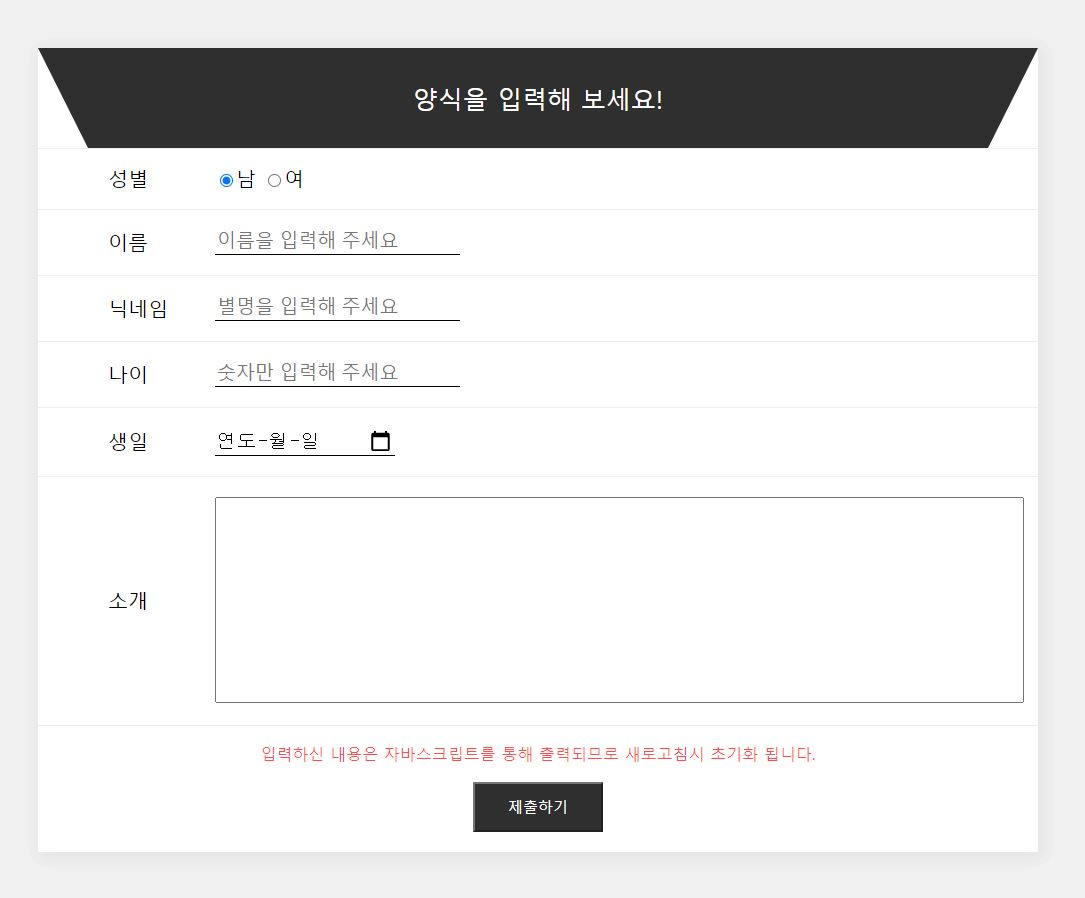
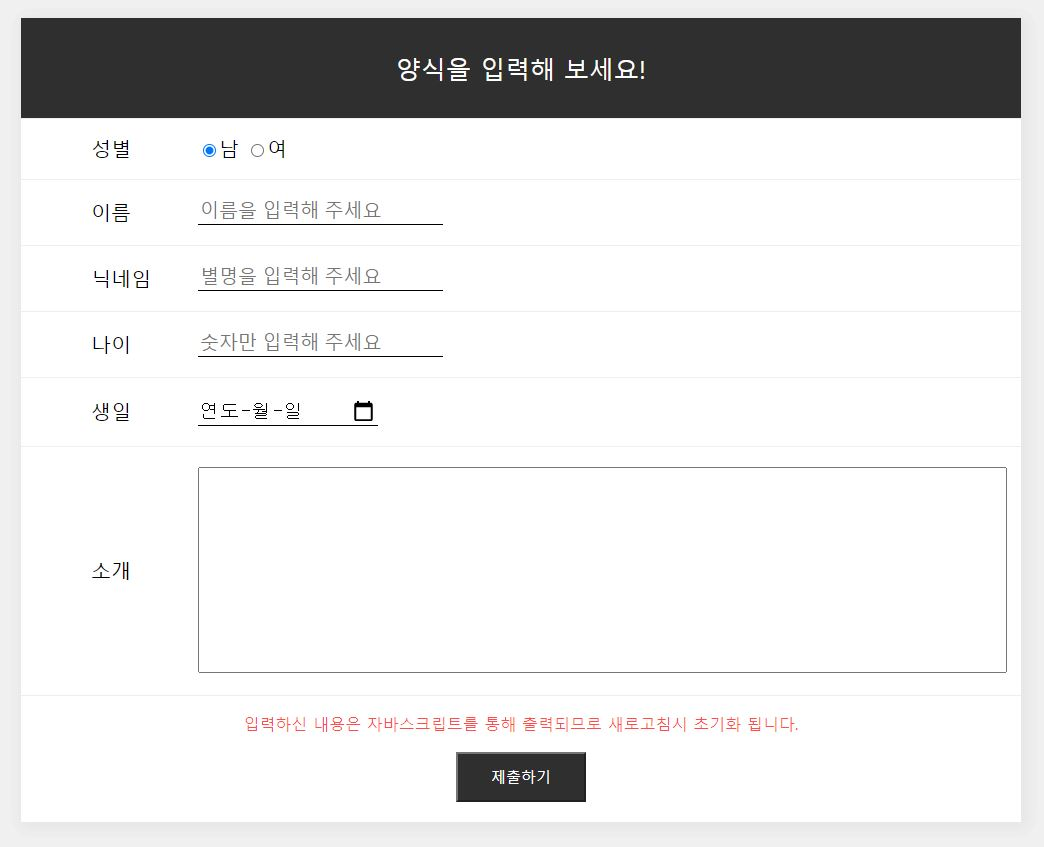
20220117

diff --git a/source/css/main.css b/source/css/main.css
@@ -1,3 +1,5 @@
+@import url(https://cdn.rawgit.com/openhiun/hangul/14c0f6faa2941116bb53001d6a7dcd5e82300c3f/nanumbarungothic.css);
+
 html {
   scroll-behavior: smooth;
   font-size: 62.5%;
@@ -6,6 +8,7 @@ html {
 body {
   overflow: scroll;
   overflow-x: hidden;
+  font-family: "Nanum Barun Gothic";
 }
 
 ::selection {
@@ -141,7 +144,7 @@ a {
   height: 500px;
   margin-left: auto;
   margin-right: auto;
-  width: 80%;
+  width: 75%;
   background-color: white;
   box-shadow: 16px 12px 16px 3px rgb(151, 151, 151);
   position: relative;
@@ -149,40 +152,44 @@ a {
 
 .contents .contents_items .introduce .i_title {
   font-size: 1.9rem;
-  line-height: 30px;
-  font-weight: 500;
+  line-height: 27px;
+  font-weight: 00;
+  letter-spacing: 1px;
 }
 
 .contents .contents_items .introduce .i_info {
   position: absolute;
   bottom: 10%;
   left: 13%;
-  font-size: 5.5rem;
+  font-size: 5rem;
   color: #555555;
 }
 
 .contents .contents_items .introduce .i_deco {
   position: absolute;
-  font-size: 27rem;
+  font-size: 24rem;
   font-weight: 800;
-  bottom: -8%;
+  bottom: -6%;
   right: 10%;
   color: #dddddd;
   transition-duration: 0.4s;
 }
 
 .contents .contents_items .tech {
-  margin-top: 19%;
-  height: 800px;
+  margin-top: 14%;
+  height: 750px;
   background-color: #555555;
   position: relative;
-  right: 50px;
+  margin-left: auto;
+  margin-right: auto;
   padding-bottom: 20px;
+  width: 80%;
+  border-radius: 15px;
 }
 
 .contents .contents_items .tech .t_title {
   font-size: 4rem;
-  line-height: 30px;
+  line-height: 55px;
   font-weight: 500;
   color: white;
   text-align: left;
@@ -191,7 +198,7 @@ a {
 }
 
 .contents .contents_items .tech .t_desc {
-  font-size: 3rem;
+  font-size: 2rem;
 }
 
 .contents .contents_items .tech:hover .t_title {
@@ -199,20 +206,22 @@ a {
 }
 
 .contents .contents_items .tech .t_desc .t_list li {
-  font-size: 10rem;
-  margin-bottom: 30px;
+  font-size: 8rem;
+  margin-bottom: 40px;
   color: white;
   font-weight: 500;
   text-align: center;
   position: relative;
   z-index: 1;
+  margin-left: auto;
+  margin-right: auto;
 }
 
 .contents .contents_items .tech .t_desc .t_list li::after {
   background-color: rgba(0, 0, 0, 0.8);
   width: 0%;
   position: absolute;
-  top: 0px;
+  top: -12px;
   left: 0px;
   right: 0px;
   bottom: 0px;
@@ -241,10 +250,10 @@ a {
 }
 
 .contents .contents_items .portfolio .items .item {
-  width: 500px;
+  width: 470px;
   height: 300px;
   background-color: black;
-  margin: 20px;
+  margin: 30px;
 }
 
 .contents .contents_items .portfolio .items .item .item_img {
@@ -274,7 +283,6 @@ a {
   background-color: rgb(226, 226, 226);
   border-radius: 3px;
   border-bottom: 0px;
-  opacity: 0;
   font-weight: 500;
   line-height: 25px;
   transition: 0.6s;
@@ -312,7 +320,7 @@ a {
   }
 
   .contents .contents_items .introduce:hover .i_deco {
-    bottom: -4.6%;
+    bottom: -4%;
     cursor: default;
   }
 
@@ -325,7 +333,7 @@ a {
     transition: 0.1s;
   }
   .contents .contents_items .tech .t_desc .t_list li:hover {
-    font-size: 12rem;
+    font-size: 10rem;
     transition: 0.2s;
   }
 
@@ -355,6 +363,7 @@ a {
     position: absolute;
     left: 50%;
     top: 50%;
+    font-family: sans-serif;
     margin-left: -70px;
     margin-top: -15px;
     padding-left: 10px;
@@ -381,10 +390,6 @@ a {
     .item:hover
     .item_img
     .hover_button {
-    opacity: 1;
-  }
-
-  .contents .contents_items .portfolio .items .item:hover .description {
     opacity: 1;
   }
 }

diff --git a/source/css/form/form.css b/source/css/form/form.css
@@ -55,6 +55,7 @@ button.submitted {
   border-top: 100px solid #2f2f2f;
   border-left: 50px solid transparent;
   border-right: 50px solid transparent;
+  background-color: #2f2f2f;
 }
 
 .page .contents .title .t {
